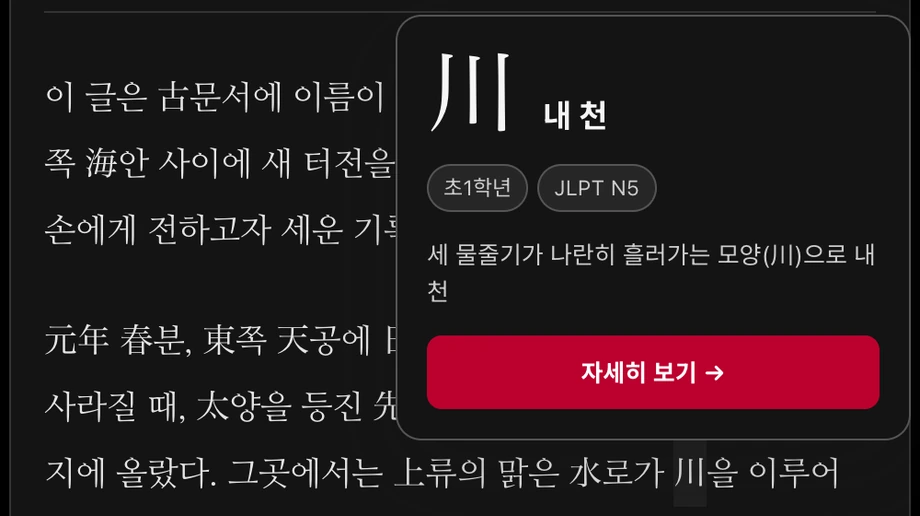
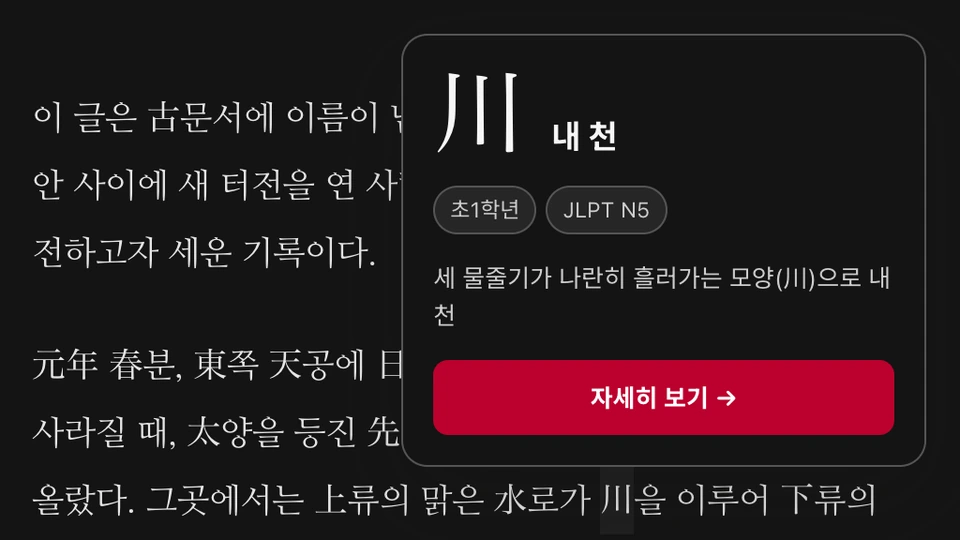
fix: restore reading and directory positions and refine the reading preview

diff --git a/src/main.js b/src/main.js
@@ -3,6 +3,7 @@ import { studySeo } from "./seo.js";
 import { quizImageCandidates } from "./quiz-image.js";
 import { displayLabel, fillPopoverMeta, placeKanjiPopover } from "./kanji-popover.js";
 import { characterDetailPath, studyDetailHref } from "./study-path.js";
+import { isHistoryReturn, trackHistoryScroll } from "./scroll-history.js";
 
       let DATA = [];
       const els = {
@@ -41,6 +42,15 @@ import { characterDetailPath, studyDetailHref } from "./study-path.js";
       let STORIES = [];
       const defaultStoryId = "story-1";
       let activeStoryId = "";
+      const savedReading = history.state?.readingScroll;
+      let pendingReading = isHistoryReturn() && Number.isFinite(savedReading?.y) ? savedReading : null;
+      const readingScroll = trackHistoryScroll(() => {
+        if (!activeStoryId || els.storyView.hidden) return;
+        const y = Math.max(0, Math.round(window.scrollY));
+        const previous = history.state?.readingScroll;
+        if (previous?.story === activeStoryId && previous.y === y) return;
+        history.replaceState({ ...history.state, readingScroll: { story: activeStoryId, y } }, "");
+      });
 
       const text = (v) => (v ?? "").toString().trim();
       const storyDisplayLabel = (v) =>
@@ -114,6 +124,11 @@ import { characterDetailPath, studyDetailHref } from "./study-path.js";
             activeStoryId = STORIES.find((story) => story.id === requestedStory)?.id ||
               STORIES.find((story) => story.id === defaultStoryId)?.id || STORIES[0].id;
             renderStory();
+            if (pendingReading) {
+              const y = pendingReading.story === activeStoryId ? pendingReading.y : 0;
+              window.scrollTo({ top: y, behavior: "instant" });
+              pendingReading = null;
+            }
           }
           return true;
         } catch (error) {
@@ -342,6 +357,10 @@ import { characterDetailPath, studyDetailHref } from "./study-path.js";
         hideKanjiPopover();
         closeImageViewer();
         const story = section === "story";
+        readingScroll.cancel();
+        activeStoryId = "";
+        if (!story) pendingReading = null;
+        history.scrollRestoration = story ? "manual" : "auto";
         const seo = studySeo[section];
         document.title = seo.title;
         document.querySelector('meta[name="description"]').content = seo.description;
@@ -354,16 +373,17 @@ import { characterDetailPath, studyDetailHref } from "./study-path.js";
         if (!els.gamePlay.hidden) resetGame();
         els.quizOptions.hidden = section !== "game";
         els.choiceSetup.hidden = section !== "choice";
-        window.scrollTo({ top: 0, behavior: "instant" });
+        if (!pendingReading) window.scrollTo({ top: 0, behavior: "instant" });
         return activateSection(section);
       }
       function selectStory(id, scroll = true) {
         if (!STORIES.some((s) => s.id === id)) return;
         const restoreLevelFocus = els.gradeStoryLevels.contains(document.activeElement) || els.jlptStoryLevels.contains(document.activeElement);
+        readingScroll.cancel();
         activeStoryId = id;
         const url = new URL(location.href);
         url.searchParams.set("story", id);
-        history.replaceState(null, "", url);
+        history.replaceState({ ...history.state, readingScroll: { story: id, y: 0 } }, "", url);
         handledLocation = location.href;
         renderStory();
         if (restoreLevelFocus) els.storyView.querySelector('.story-level[aria-current="true"]')?.focus({ preventScroll: true });
@@ -605,7 +625,10 @@ import { characterDetailPath, studyDetailHref } from "./study-path.js";
           url.pathname = link.pathname;
           url.hash = "";
           url.searchParams.delete("story");
-          if (url.href !== location.href) history.pushState(null, "", url);
+          if (url.href !== location.href) {
+            readingScroll.flush();
+            history.pushState(null, "", url);
+          }
           if (!await bootstrap()) return;
           const destinationTitle = target === "story" ? els.storyTitle : document.getElementById("choiceTitle");
           const sourceCard = previous === "choice" ? els.choiceLink : els.readingLink;
@@ -630,7 +653,9 @@ import { characterDetailPath, studyDetailHref } from "./study-path.js";
       document.getElementById("gameExit").addEventListener("click", returnToGameSettings);
       els.gameSettingsButton.addEventListener("click", returnToGameSettings);
       popover.go.addEventListener("click", () => {
-        if (popoverKanji) location.assign(studyDetailHref(popoverKanji, location.search));
+        if (!popoverKanji) return;
+        readingScroll.flush();
+        location.assign(studyDetailHref(popoverKanji, location.search));
       });
       popover.root.addEventListener("mouseenter", () => {
         clearTimeout(popoverHoverTimer);
@@ -713,6 +738,7 @@ import { characterDetailPath, studyDetailHref } from "./study-path.js";
       async function bootstrap({ force = false } = {}) {
         const requestedLocation = location.href;
         if (!force && handledLocation === requestedLocation) return;
+        if (handledLocation && handledLocation !== requestedLocation) pendingReading = null;
         handledLocation = requestedLocation;
         const requestedKanji = new URLSearchParams(location.hash.slice(1)).get("kanji");
         if (characterDetailPath(requestedKanji)) {

diff --git a/src/material-directory.js b/src/material-directory.js
@@ -1,5 +1,6 @@
 import { characterDetailPath, studyDetailHref } from "./study-path.js";
 import { getStudyIndex } from "./study-index.js";
+import { isHistoryReturn, trackHistoryScroll } from "./scroll-history.js";
 import { defaultDirectorySort, directoryFields, directoryHref, directoryMeaning, directoryPageSize, directoryRows, filterDirectory } from "./material-directory-data.js";
 
 const directory = document.querySelector("[data-study-directory]");
@@ -13,6 +14,21 @@ const reset = directory.querySelector("[data-directory-reset]");
 const orders = new Map();
 let requested = 0;
 let lastRendered;
+let pendingScroll = isHistoryReturn() && Number.isFinite(history.state?.directoryScroll)
+  ? history.state.directoryScroll : null;
+// Suppress native restoration against the first 96 links only when leaving the document.
+// Within the directory, back/forward through filter entries keeps the browser's default.
+window.addEventListener("pagehide", () => { history.scrollRestoration = "manual"; });
+window.addEventListener("pageshow", () => requestAnimationFrame(() => {
+  history.scrollRestoration = "auto";
+}));
+const scrollHistory = trackHistoryScroll(() => {
+  if (pendingScroll !== null) return;
+  const y = Math.max(0, Math.round(window.scrollY));
+  if (history.state?.directoryScroll !== y) {
+    history.replaceState({ ...history.state, directoryScroll: y }, "");
+  }
+});
 
 function syncSortWithGrade() {
   const { grade, sort } = form.elements;
@@ -50,13 +66,13 @@ function visibleLimit() {
   return Number.isInteger(limit) && limit >= directoryPageSize ? limit : directoryPageSize;
 }
 
-function remember(params, limit, push = false) {
+function remember(params, limit, push = false, scroll = history.state?.directoryScroll ?? 0) {
   const url = new URL(location.href);
   for (const name of directoryFields) {
     if (params.has(name)) url.searchParams.set(name, params.get(name));
     else url.searchParams.delete(name);
   }
-  const state = { ...history.state, directoryCount: limit };
+  const state = { ...history.state, directoryCount: limit, directoryScroll: scroll };
   if (push && url.href !== location.href) history.pushState(state, "", url);
   else history.replaceState(state, "", url);
 }
@@ -101,6 +117,11 @@ async function render(limit, append = false) {
     if (append && links.length) links[0].focus({ preventScroll: true });
     document.documentElement.classList.remove("directory-filter-pending");
     lastRendered = signature;
+    if (pendingScroll !== null) {
+      // Only the hydrated grid is tall enough to reach a later page of results.
+      window.scrollTo({ top: pendingScroll, behavior: "instant" });
+      pendingScroll = null;
+    }
   } catch {
     if (ticket !== requested) return;
     document.documentElement.classList.remove("directory-filter-pending");
@@ -115,9 +136,12 @@ async function render(limit, append = false) {
 }
 
 function applyFilters(push = false) {
+  scrollHistory.cancel();
+  pendingScroll = null;
   syncSortWithGrade();
-  remember(readControls(), directoryPageSize, push);
+  remember(readControls(), directoryPageSize, push, 0);
   render(directoryPageSize);
+  window.scrollTo({ top: 0, behavior: "instant" });
 }
 
 form.addEventListener("submit", event => { event.preventDefault(); applyFilters(); });
@@ -129,13 +153,26 @@ reset.addEventListener("click", event => {
   form.reset();
   applyFilters(true);
 });
+grid.addEventListener("click", event => {
+  if (event.target.closest("a") && !event.defaultPrevented && event.button === 0 &&
+      !event.metaKey && !event.ctrlKey && !event.shiftKey && !event.altKey) {
+    scrollHistory.flush();
+    history.scrollRestoration = "manual";
+  }
+});
 more.addEventListener("click", () => {
+  pendingScroll = null;
   const limit = visibleLimit() + directoryPageSize;
   remember(readControls(), limit);
   render(limit, true);
 });
 retry.addEventListener("click", () => render(visibleLimit()));
-function restoreDirectory() {
+function restoreDirectory(event) {
+  if (event) {
+    // Same-document filter changes must not replay a position from the initial navigation.
+    scrollHistory.cancel();
+    pendingScroll = null;
+  }
   const ch = new URLSearchParams(location.hash.slice(1)).get("kanji");
   if (characterDetailPath(ch)) {
     location.replace(studyDetailHref(ch, location.search));
@@ -145,7 +182,10 @@ function restoreDirectory() {
   const hasEarlyInput = form.querySelector("[data-early-edit]");
   restoreControls();
   const sortChanged = syncSortWithGrade();
-  if (hasEarlyInput || sortChanged) remember(readControls(), directoryPageSize);
+  if (hasEarlyInput || sortChanged) {
+    pendingScroll = null;
+    remember(readControls(), directoryPageSize, false, 0);
+  }
   render(visibleLimit());
 }
 form.removeAttribute("oninput");

diff --git a/tests/browser/reading-navigation.spec.js b/tests/browser/reading-navigation.spec.js
@@ -35,6 +35,59 @@ test("keyboard story selection retains focus on the selected level", async ({ pa
   await expect(page.locator("#jlptStoryLevels button").nth(1)).toBeFocused();
 });
 
+test("back from a kanji detail and reload keep the reader on the same passage", async ({ page }) => {
+  await page.setViewportSize({ width: 390, height: 844 });
+  await page.goto("/reading/?story=story-2");
+  const title = stories.find(story => story.id === "story-2").title;
+  const word = page.locator('#storyCopy [data-target-kanji="勝"]');
+  await expect(word).toHaveCount(1);
+  await word.evaluate(button => button.scrollIntoView({ block: "center", behavior: "instant" }));
+  await word.click();
+  const before = await page.evaluate(() => scrollY);
+  expect(before).toBeGreaterThan(1000);
+  await page.locator("#popoverGo").click();
+  await expect(page.locator("[data-entry-kanji]")).toHaveAttribute("data-entry-kanji", "勝");
+  await page.goBack();
+  await expect(page.locator("#storyTitle")).toHaveText(title);
+  await expect(word).toBeInViewport();
+  await expect.poll(() => page.evaluate(y => Math.abs(scrollY - y), before)).toBeLessThan(5);
+
+  const shifted = await page.evaluate(() => {
+    window.scrollBy({ top: 100, behavior: "instant" });
+    return scrollY;
+  });
+  await expect.poll(() => page.evaluate(() => history.state?.readingScroll?.y)).toBe(shifted);
+  await page.reload();
+  await expect(word).toBeInViewport();
+  await expect.poll(() => page.evaluate(y => Math.abs(scrollY - y), shifted)).toBeLessThan(5);
+});
+
+test("a new reader entry or different story starts at the beginning", async ({ page }) => {
+  await page.setViewportSize({ width: 390, height: 844 });
+  await page.goto("/reading/?story=story-2");
+  await expect(page.locator("#storyCopy p").first()).toBeVisible();
+  await expect.poll(() => page.evaluate(() => scrollY)).toBe(0);
+  await page.locator('#storyCopy [data-target-kanji="勝"]').evaluate(button => button.scrollIntoView());
+
+  const level = page.locator('#jlptStoryLevels button:not([aria-current="true"])').first();
+  await level.click();
+  await expect(page.locator("#storyCopy p").first()).toBeInViewport();
+  await page.locator("#storyView .story-exit").last().click();
+  await expect(page.locator("#choose-reading")).toBeFocused();
+  await page.locator("#choose-reading").click();
+  await expect(page.locator("#storyTitle")).toHaveText(stories.find(story => story.id === "story-1").title);
+  await expect.poll(() => page.evaluate(() => scrollY)).toBe(0);
+
+  await page.addInitScript(() => {
+    if (location.pathname === "/reading/") {
+      history.replaceState({ ...history.state, readingScroll: { story: "story-2", y: 4000 } }, "");
+    }
+  });
+  await page.reload();
+  await expect(page.locator("#storyCopy p").first()).toBeVisible();
+  await expect.poll(() => page.evaluate(() => scrollY)).toBe(0);
+});
+
 test("the quiz hub opens the reader and its JLPT and grade stories", async ({ page }) => {
   await page.goto("/quiz/");
   await page.locator("#choose-reading").click();

diff --git a/tests/browser/virtual-grid.spec.js b/tests/browser/virtual-grid.spec.js
@@ -3,6 +3,65 @@ import { readFile } from "node:fs/promises";
 
 const rows = JSON.parse(await readFile(new URL("../../public/data/kanji.json", import.meta.url)));
 
+test("back and reload restore the expanded directory before returning to the selected kanji", async ({ page }) => {
+  await page.setViewportSize({ width: 390, height: 844 });
+  await page.goto("/kanji/");
+  const links = page.locator("[data-directory-grid] a");
+  const more = page.locator("[data-directory-more]");
+  await more.click();
+  await expect(links).toHaveCount(192);
+  await more.click();
+  await expect(links).toHaveCount(288);
+  const target = links.nth(250);
+  await expect(target.locator("span")).toHaveText("皮");
+  await target.evaluate(link => link.scrollIntoView({ block: "center", behavior: "instant" }));
+  const before = await page.evaluate(() => scrollY);
+  expect(before).toBeGreaterThan(1000);
+  await target.click();
+  await expect(page.locator("[data-entry-kanji]")).toHaveAttribute("data-entry-kanji", "皮");
+  await page.goBack();
+  await expect(links).toHaveCount(288);
+  await expect(target).toBeInViewport();
+  await expect.poll(() => page.evaluate(y => Math.abs(scrollY - y), before)).toBeLessThan(5);
+  await page.reload();
+  await expect(links).toHaveCount(288);
+  await expect(target).toBeInViewport();
+  await expect.poll(() => page.evaluate(y => Math.abs(scrollY - y), before)).toBeLessThan(5);
+
+  await page.locator("#directory-q").fill("皮");
+  await expect(links).toHaveCount(1);
+  await expect(links.first()).toBeInViewport();
+  await expect.poll(() => page.evaluate(() => history.state.directoryScroll)).toBe(0);
+});
+
+test("detail back preserves the directory search, filters and sort", async ({ page }) => {
+  await page.goto("/kanji/");
+  const filters = {
+    sort: "memory",
+    jlpt: "JLPT N2",
+    grade: "초등학교 6학년",
+    strokes: "18",
+  };
+  for (const [field, value] of Object.entries(filters)) {
+    await page.locator(`#directory-${field}`).selectOption(value);
+  }
+  await page.locator("#directory-q").fill("문 문");
+  const result = page.locator("[data-directory-grid] a");
+  await expect(result).toHaveCount(1);
+  await expect(result.locator("span")).toHaveText("簡");
+  const listUrl = page.url();
+  await result.click();
+  await expect(page.locator("[data-entry-kanji]")).toHaveAttribute("data-entry-kanji", "簡");
+  await page.goBack();
+  await expect(page).toHaveURL(listUrl);
+  await expect(page.locator("#directory-q")).toHaveValue("문 문");
+  for (const [field, value] of Object.entries(filters)) {
+    await expect(page.locator(`#directory-${field}`)).toHaveValue(value);
+  }
+  await expect(result).toHaveCount(1);
+  await expect(result).toBeInViewport();
+});
+
 for (const mode of ["ministry", "memory"]) {
   test(`load more appends every ${mode} link once, in order, and focuses the next group`, async ({ page }) => {
     await page.addInitScript(() => localStorage.setItem("manabo-analytics-consent-v1", JSON.stringify({ choice: "denied", at: Date.now() })));

diff --git a/src/study.html b/src/study.html
@@ -113,7 +113,7 @@
               <a class="quiz-tile" href="/reading/" id="choose-reading" aria-labelledby="reading-name">
                 <picture class="quiz-cover">
                   <source data-dark-preview media="not all" srcset="/images/quiz-preview-reading-dark.webp">
-                  <img src="/images/quiz-preview-reading.webp" alt="본문의 川에 마우스를 올려 내 천의 뜻과 자세히 보기 버튼이 나타난 화면" width="920" height="516" decoding="async">
+                  <img src="/images/quiz-preview-reading.webp" alt="본문의 川에 마우스를 올려 내 천의 뜻과 자세히 보기 버튼이 나타난 화면" width="960" height="540" decoding="async">
                 </picture>
                 <span class="quiz-tile-caption">
                   <strong id="reading-name">독해</strong>

diff --git a/src/scroll-history.js b/src/scroll-history.js
@@ -1,0 +1,22 @@
+export function isHistoryReturn() {
+  const navigation = performance.getEntriesByType("navigation")[0];
+  return navigation?.type === "back_forward" || navigation?.type === "reload";
+}
+
+export function trackHistoryScroll(save) {
+  let timer;
+  function cancel() {
+    clearTimeout(timer);
+  }
+  function flush() {
+    cancel();
+    save();
+  }
+  window.addEventListener("scroll", () => {
+    cancel();
+    timer = setTimeout(flush, 150);
+  }, { passive: true });
+  document.addEventListener("scrollend", flush);
+  window.addEventListener("pagehide", flush);
+  return { flush, cancel };
+}
